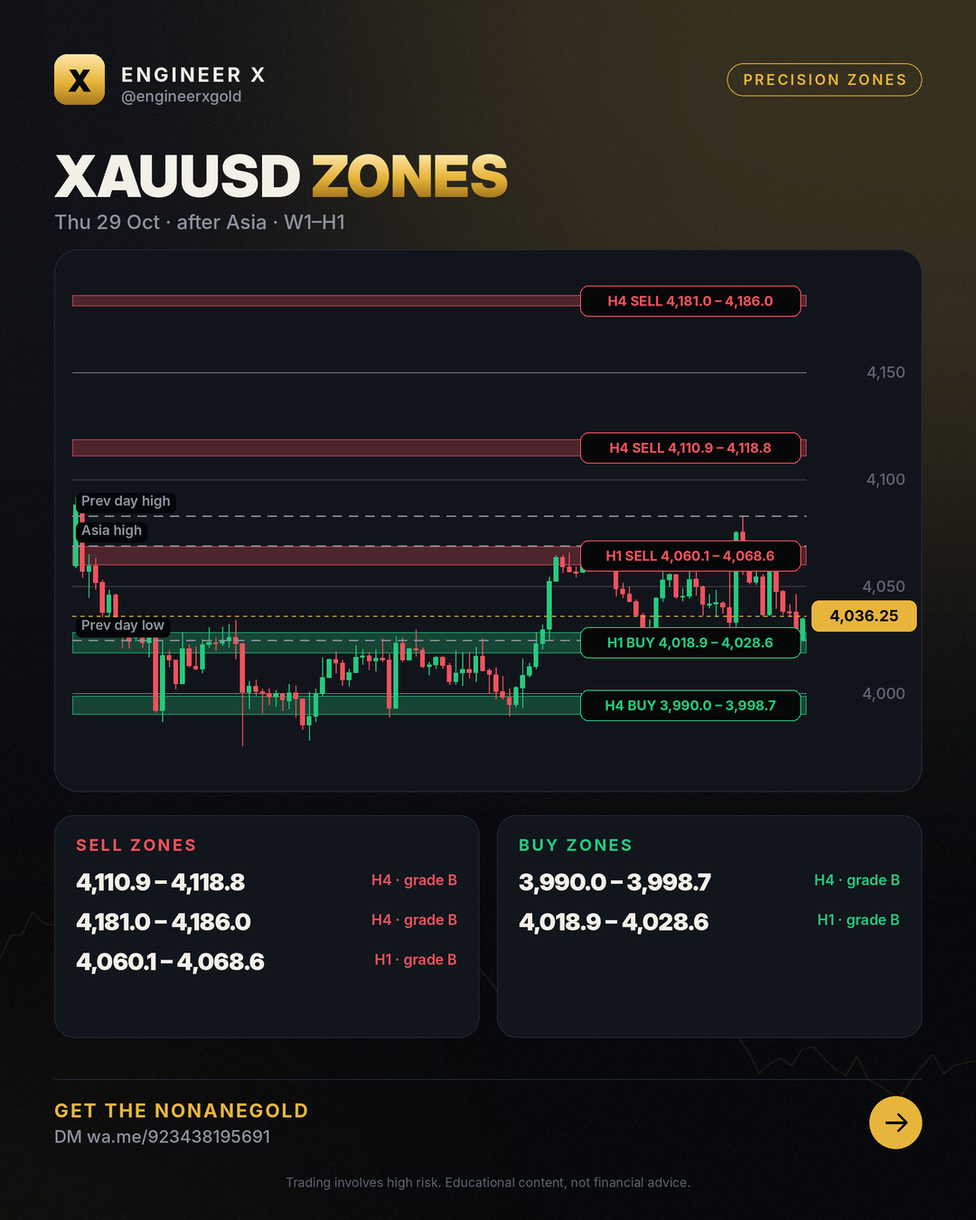
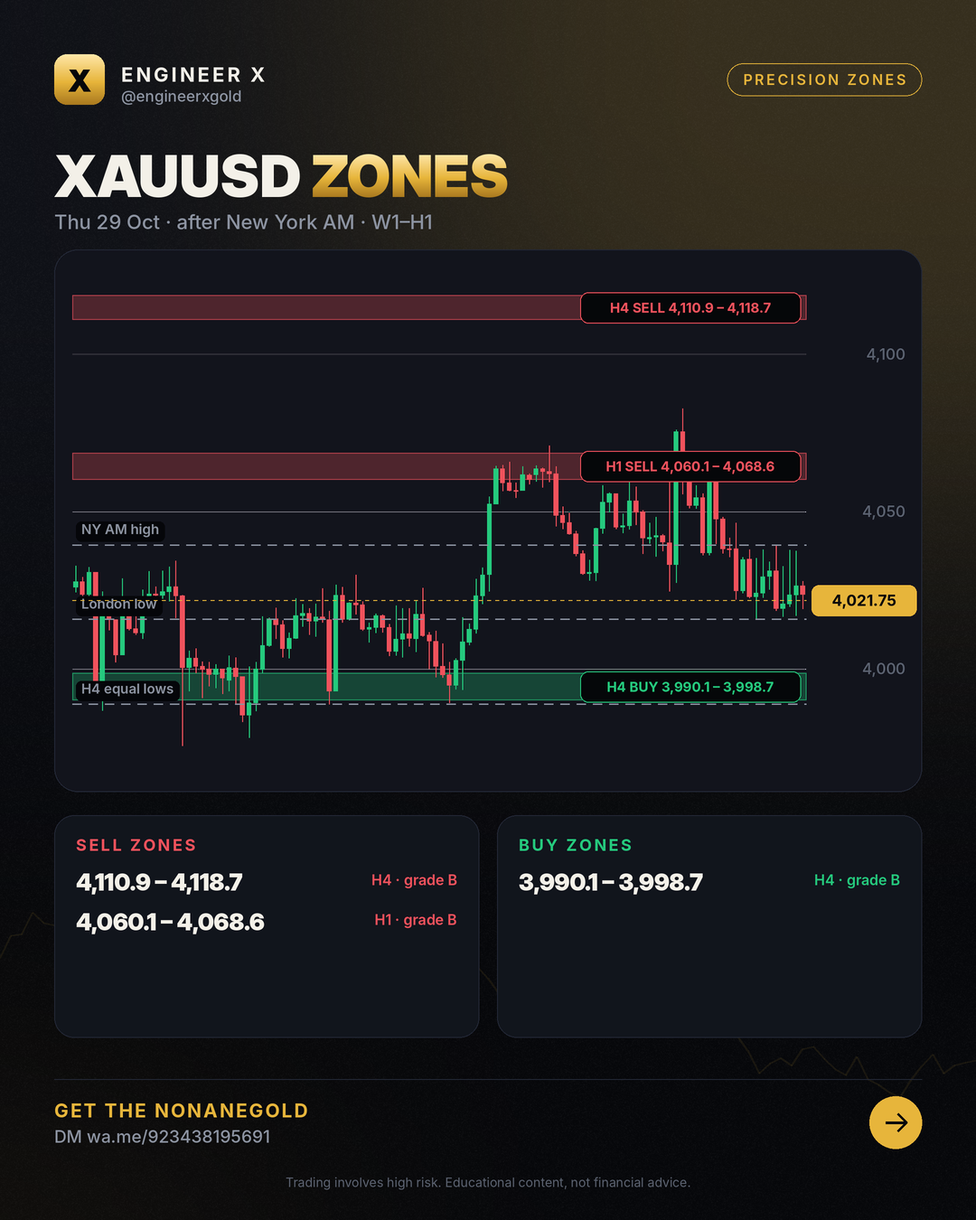
zones 2026-10-29 Thu 29 Oct · after New York AM · W1–H1

diff --git a/zones/index.html b/zones/index.html
@@ -4,7 +4,7 @@
 <meta charset="utf-8">
 <meta name="viewport" content="width=device-width,initial-scale=1">
 <title>XAUUSD Zones Today – Buy &amp; Sell Zones (H4, H1) | Engineer X</title>
-<meta name="description" content="XAUUSD buy and sell zones for 2026-10-29: tested W1, D1, H4 and H1 zones with invalidation levels, updated after the Asian, London and New York sessions. Price 4,036.25.">
+<meta name="description" content="XAUUSD buy and sell zones for 2026-10-29: tested W1, D1, H4 and H1 zones with invalidation levels, updated after the Asian, London and New York sessions. Price 4,021.75.">
 <meta name="robots" content="index,follow,max-image-preview:large,max-snippet:-1,max-video-preview:-1">
 <meta name="author" content="Engr. M Ahmad Mehmood">
 <link rel="canonical" href="https://engineerxgold.github.io/zones/">
@@ -12,7 +12,7 @@
 <link rel="apple-touch-icon" href="../img/logo.png">
 <meta property="og:site_name" content="Engineer X">
 <meta property="og:title" content="XAUUSD Zones Today – Buy &amp; Sell Zones (H4, H1) | Engineer X">
-<meta property="og:description" content="XAUUSD buy and sell zones for 2026-10-29: tested W1, D1, H4 and H1 zones with invalidation levels, updated after the Asian, London and New York sessions. Price 4,036.25.">
+<meta property="og:description" content="XAUUSD buy and sell zones for 2026-10-29: tested W1, D1, H4 and H1 zones with invalidation levels, updated after the Asian, London and New York sessions. Price 4,021.75.">
 <meta property="og:type" content="website">
 <meta property="og:url" content="https://engineerxgold.github.io/zones/">
 <meta property="og:image" content="https://engineerxgold.github.io/zones/img/2026-10-29.png">
@@ -22,7 +22,7 @@
 <meta property="og:locale" content="en_US">
 <meta name="twitter:card" content="summary_large_image">
 <meta name="twitter:title" content="XAUUSD Zones Today – Buy &amp; Sell Zones (H4, H1) | Engineer X">
-<meta name="twitter:description" content="XAUUSD buy and sell zones for 2026-10-29: tested W1, D1, H4 and H1 zones with invalidation levels, updated after the Asian, London and New York sessions. Price 4,036.25.">
+<meta name="twitter:description" content="XAUUSD buy and sell zones for 2026-10-29: tested W1, D1, H4 and H1 zones with invalidation levels, updated after the Asian, London and New York sessions. Price 4,021.75.">
 <meta name="twitter:image" content="https://engineerxgold.github.io/zones/img/2026-10-29.png">
 <meta name="twitter:image:alt" content="XAUUSD Zones Today – Buy &amp; Sell Zones (H4, H1) | Engineer X">
 
@@ -101,7 +101,7 @@ footer .fl a{color:var(--muted);margin-right:16px}
 <div class="wrap">
 <nav><a class="logo" href="../"><b>X</b>Engineer X</a>
 <div class="links"><a href="../zones/">Daily Zones</a><a href="../blog/">Learn</a><a href="../ea/">Gold EA</a><a href="../about/">About</a><a class="cta" href="https://wa.me/923438195691">Get the EA</a></div></nav>
-<section class="hero"><span class="chip">Updated Thu 29 Oct · after Asia · W1–H1</span><h1>XAUUSD <span class="gold">precision zones</span></h1><p>XAUUSD buy and sell zones for 2026-10-29: tested W1, D1, H4 and H1 zones with invalidation levels, updated after the Asian, London and New York sessions. Price 4,036.25.</p></section><img src="img/2026-10-29.png" alt="Latest XAUUSD zone map" width="1080" height="1350"><section><h2>Current zones</h2><div style="overflow-x:auto"><table style="width:100%;border-collapse:collapse;font-size:15px"><tr><th align=left>Zone</th><th align=left>Price band</th><th>Grade</th><th align=left>Invalid</th><th align=left>Why</th></tr><tr><td>H4 sell</td><td><b>4,110.85 – 4,118.75</b></td><td>B</td><td>above 4,120.41</td><td>MSNR resistance levels (fresh): 4H GAP 4113.34, 1H OCL 4115.24, 1H A 4116.26. Wrong if price trades above 4120.41.; Confluence score 3: MSNR + ICT + SMC</td></tr><tr><td>H4 sell</td><td><b>4,181.04 – 4,186.02</b></td><td>B</td><td>above 4,187.68</td><td>MSNR resistance level (fresh): 4H A 4183.53. Wrong if price trades above 4187.68.; Confluence score 2: MSNR + CRT</td></tr><tr><td>H1 sell</td><td><b>4,060.08 – 4,068.62</b></td><td>B</td><td>above 4,070.28</td><td>MSNR resistance levels (fresh): 1H A 4062.57, 30m GAP 4062.57, 30m A 4066.13, 15m A 4062.57. Wrong if price trades above 4070.28.; Confluence score 2: MSNR + CR</td></tr><tr><td>H1 buy</td><td><b>4,018.87 – 4,028.58</b></td><td>B</td><td>below 4,017.21</td><td>MSNR support levels (fresh): 1H V 4024.77, 30m V 4021.36, 30m V 4024.77, 15m V 4021.36, 15m GAP 4026.09. Wrong if price trades below 4017.21.; Confluence score </td></tr><tr><td>H4 buy</td><td><b>3,990.03 – 3,998.71</b></td><td>B</td><td>below 3,988.37</td><td>MSNR support levels (fresh): 4H V 3994.82, 30m V 3994.63, 15m V 3992.52, 15m V 3994.63, 15m OCL 3996.22. Wrong if price trades below 3988.37.; Confluence score </td></tr></table></div></section><section><h2>Honest scorecard</h2><div class="grid"><div class="card"><div class="n">195</div><p>zones published (30 days)</p></div><div class="card"><div class="n">97</div><p>held (moved 1 hourly ATR away)</p></div><div class="card"><div class="n">16</div><p>broke (traded beyond the invalidation)</p></div><div class="card"><div class="n">86%</div><p>hold rate of decided zones</p></div></div></section><div class="ctabox"><h3>🤖 Trade the zones with the NonaneGold</h3><p>Free signals group access + setup help Message us and we will help you set it up.</p><div class="btns"><a class="btn gold" href="https://wa.me/923438195691">Get the EA on Telegram</a><a class="btn ghost" href="../ea/">About the EA</a></div></div><section><h2>Archive</h2><div class="grid posts"><a class="card" href="2026-10-29/"><span class="date">2026-10-29</span><h3>XAUUSD zones 2026-10-29</h3></a><a class="card" href="2026-10-28/"><span class="date">2026-10-28</span><h3>XAUUSD zones 2026-10-28</h3></a><a class="card" href="2026-10-27/"><span class="date">2026-10-27</span><h3>XAUUSD zones 2026-10-27</h3></a><a class="card" href="2026-10-26/"><span class="date">2026-10-26</span><h3>XAUUSD zones 2026-10-26</h3></a><a class="card" href="2026-10-23/"><span class="date">2026-10-23</span><h3>XAUUSD zones 2026-10-23</h3></a><a class="card" href="2026-10-22/"><span class="date">2026-10-22</span><h3>XAUUSD zones 2026-10-22</h3></a><a class="card" href="2026-10-21/"><span class="date">2026-10-21</span><h3>XAUUSD zones 2026-10-21</h3></a><a class="card" href="2026-10-20/"><span class="date">2026-10-20</span><h3>XAUUSD zones 2026-10-20</h3></a><a class="card" href="2026-10-19/"><span class="date">2026-10-19</span><h3>XAUUSD zones 2026-10-19</h3></a><a class="card" href="2026-10-16/"><span class="date">2026-10-16</span><h3>XAUUSD zones 2026-10-16</h3></a><a class="card" href="2026-10-15/"><span class="date">2026-10-15</span><h3>XAUUSD zones 2026-10-15</h3></a><a class="card" href="2026-10-14/"><span class="date">2026-10-14</span><h3>XAUUSD zones 2026-10-14</h3></a><a class="card" href="2026-10-13/"><span class="date">2026-10-13</span><h3>XAUUSD zones 2026-10-13</h3></a></div></section>
+<section class="hero"><span class="chip">Updated Thu 29 Oct · after New York AM · W1–H1</span><h1>XAUUSD <span class="gold">precision zones</span></h1><p>XAUUSD buy and sell zones for 2026-10-29: tested W1, D1, H4 and H1 zones with invalidation levels, updated after the Asian, London and New York sessions. Price 4,021.75.</p></section><img src="img/2026-10-29.png" alt="Latest XAUUSD zone map" width="1080" height="1350"><section><h2>Current zones</h2><div style="overflow-x:auto"><table style="width:100%;border-collapse:collapse;font-size:15px"><tr><th align=left>Zone</th><th align=left>Price band</th><th>Grade</th><th align=left>Invalid</th><th align=left>Why</th></tr><tr><td>H4 sell</td><td><b>4,110.91 – 4,118.69</b></td><td>B</td><td>above 4,120.31</td><td>MSNR resistance levels (fresh): 4H GAP 4113.34, 1H OCL 4115.24, 1H A 4116.26. Wrong if price trades above 4120.31.; Confluence score 3: MSNR + ICT + SMC</td></tr><tr><td>H1 sell</td><td><b>4,060.14 – 4,068.56</b></td><td>B</td><td>above 4,070.18</td><td>MSNR resistance levels (fresh): 1H A 4062.57, 30m GAP 4062.57, 30m A 4066.13, 15m A 4062.57. Wrong if price trades above 4070.18.; Confluence score 2: MSNR + CR</td></tr><tr><td>H4 buy</td><td><b>3,990.09 – 3,998.65</b></td><td>B</td><td>below 3,988.47</td><td>MSNR support levels (fresh): 4H V 3994.82, 30m V 3994.63, 15m V 3992.52, 15m V 3994.63, 15m OCL 3996.22. Wrong if price trades below 3988.47.; Confluence score </td></tr></table></div></section><section><h2>Honest scorecard</h2><div class="grid"><div class="card"><div class="n">200</div><p>zones published (30 days)</p></div><div class="card"><div class="n">98</div><p>held (moved 1 hourly ATR away)</p></div><div class="card"><div class="n">17</div><p>broke (traded beyond the invalidation)</p></div><div class="card"><div class="n">85%</div><p>hold rate of decided zones</p></div></div></section><div class="ctabox"><h3>🤖 Trade the zones with the NonaneGold</h3><p>Free signals group access + setup help Message us and we will help you set it up.</p><div class="btns"><a class="btn gold" href="https://wa.me/923438195691">Get the EA on Telegram</a><a class="btn ghost" href="../ea/">About the EA</a></div></div><section><h2>Archive</h2><div class="grid posts"><a class="card" href="2026-10-29/"><span class="date">2026-10-29</span><h3>XAUUSD zones 2026-10-29</h3></a><a class="card" href="2026-10-28/"><span class="date">2026-10-28</span><h3>XAUUSD zones 2026-10-28</h3></a><a class="card" href="2026-10-27/"><span class="date">2026-10-27</span><h3>XAUUSD zones 2026-10-27</h3></a><a class="card" href="2026-10-26/"><span class="date">2026-10-26</span><h3>XAUUSD zones 2026-10-26</h3></a><a class="card" href="2026-10-23/"><span class="date">2026-10-23</span><h3>XAUUSD zones 2026-10-23</h3></a><a class="card" href="2026-10-22/"><span class="date">2026-10-22</span><h3>XAUUSD zones 2026-10-22</h3></a><a class="card" href="2026-10-21/"><span class="date">2026-10-21</span><h3>XAUUSD zones 2026-10-21</h3></a><a class="card" href="2026-10-20/"><span class="date">2026-10-20</span><h3>XAUUSD zones 2026-10-20</h3></a><a class="card" href="2026-10-19/"><span class="date">2026-10-19</span><h3>XAUUSD zones 2026-10-19</h3></a><a class="card" href="2026-10-16/"><span class="date">2026-10-16</span><h3>XAUUSD zones 2026-10-16</h3></a><a class="card" href="2026-10-15/"><span class="date">2026-10-15</span><h3>XAUUSD zones 2026-10-15</h3></a><a class="card" href="2026-10-14/"><span class="date">2026-10-14</span><h3>XAUUSD zones 2026-10-14</h3></a><a class="card" href="2026-10-13/"><span class="date">2026-10-13</span><h3>XAUUSD zones 2026-10-13</h3></a></div></section>
 <footer>
 <div class="warn"><b>Risk warning:</b> Trading gold, forex and CFDs carries a high risk of losing money and is not suitable for everyone. Past results do not guarantee future results. Everything on this site is educational and not financial advice. We are an introducing partner of our broker and may earn a commission on accounts opened through our link.</div>
 <p class="fl" style="margin-top:18px"><a href="../about/">About &amp; methodology</a><a href="../privacy.html">Privacy</a><a href="../terms.html">Terms &amp; risk disclosure</a><a href="../feed.xml">RSS</a><a href="https://t.me/engineerxgold">Telegram</a></p>

diff --git a/zones/2026-10-29/index.html b/zones/2026-10-29/index.html
@@ -4,7 +4,7 @@
 <meta charset="utf-8">
 <meta name="viewport" content="width=device-width,initial-scale=1">
 <title>Gold Price Today In India – 29 Oct 2026 (W1–H1)</title>
-<meta name="description" content="XAUUSD buy and sell zones for 2026-10-29: tested W1, D1, H4 and H1 zones with invalidation levels, updated after the Asian, London and New York sessions. Price 4,036.25.">
+<meta name="description" content="XAUUSD buy and sell zones for 2026-10-29: tested W1, D1, H4 and H1 zones with invalidation levels, updated after the Asian, London and New York sessions. Price 4,021.75.">
 <meta name="robots" content="index,follow,max-image-preview:large,max-snippet:-1,max-video-preview:-1">
 <meta name="author" content="Engr. M Ahmad Mehmood">
 <link rel="canonical" href="https://engineerxgold.github.io/zones/2026-10-29/">
@@ -12,7 +12,7 @@
 <link rel="apple-touch-icon" href="../../img/logo.png">
 <meta property="og:site_name" content="Engineer X">
 <meta property="og:title" content="Gold Price Today In India – 29 Oct 2026 (W1–H1)">
-<meta property="og:description" content="XAUUSD buy and sell zones for 2026-10-29: tested W1, D1, H4 and H1 zones with invalidation levels, updated after the Asian, London and New York sessions. Price 4,036.25.">
+<meta property="og:description" content="XAUUSD buy and sell zones for 2026-10-29: tested W1, D1, H4 and H1 zones with invalidation levels, updated after the Asian, London and New York sessions. Price 4,021.75.">
 <meta property="og:type" content="article">
 <meta property="og:url" content="https://engineerxgold.github.io/zones/2026-10-29/">
 <meta property="og:image" content="https://engineerxgold.github.io/zones/img/2026-10-29.png">
@@ -22,7 +22,7 @@
 <meta property="og:locale" content="en_US">
 <meta name="twitter:card" content="summary_large_image">
 <meta name="twitter:title" content="Gold Price Today In India – 29 Oct 2026 (W1–H1)">
-<meta name="twitter:description" content="XAUUSD buy and sell zones for 2026-10-29: tested W1, D1, H4 and H1 zones with invalidation levels, updated after the Asian, London and New York sessions. Price 4,036.25.">
+<meta name="twitter:description" content="XAUUSD buy and sell zones for 2026-10-29: tested W1, D1, H4 and H1 zones with invalidation levels, updated after the Asian, London and New York sessions. Price 4,021.75.">
 <meta name="twitter:image" content="https://engineerxgold.github.io/zones/img/2026-10-29.png">
 <meta name="twitter:image:alt" content="Gold Price Today In India – 29 Oct 2026 (W1–H1)">
 
@@ -32,7 +32,7 @@
 <link rel="preconnect" href="https://fonts.googleapis.com">
 <link rel="preconnect" href="https://fonts.gstatic.com" crossorigin>
 <link href="https://fonts.googleapis.com/css2?family=Inter:wght@400;500;600;800;900&display=swap" rel="stylesheet">
-<script type="application/ld+json">{"@context": "https://schema.org", "@type": "Organization", "@id": "https://engineerxgold.github.io/#organization", "name": "Engineer X", "url": "https://engineerxgold.github.io/", "logo": {"@type": "ImageObject", "url": "https://engineerxgold.github.io/img/logo.png", "width": 512, "height": 512}, "sameAs": ["https://t.me/engineerxgold"]}</script><script type="application/ld+json">{"@context": "https://schema.org", "@type": "Article", "headline": "Gold Price Today In India – 29 Oct 2026 (W1–H1)", "datePublished": "2026-10-29T08:00:00+05:00", "dateModified": "2026-10-29T12:04:15+05:00", "author": {"@type": "Person", "@id": "https://engineerxgold.github.io/about/#author", "name": "Engr. M Ahmad Mehmood", "url": "https://engineerxgold.github.io/about/", "jobTitle": "MQL5 Expert Advisor developer and gold market analyst", "worksFor": {"@id": "https://engineerxgold.github.io/#organization"}}, "publisher": {"@id": "https://engineerxgold.github.io/#organization"}, "image": "https://engineerxgold.github.io/zones/img/2026-10-29.png", "mainEntityOfPage": "https://engineerxgold.github.io/zones/2026-10-29/"}</script>
+<script type="application/ld+json">{"@context": "https://schema.org", "@type": "Organization", "@id": "https://engineerxgold.github.io/#organization", "name": "Engineer X", "url": "https://engineerxgold.github.io/", "logo": {"@type": "ImageObject", "url": "https://engineerxgold.github.io/img/logo.png", "width": 512, "height": 512}, "sameAs": ["https://t.me/engineerxgold"]}</script><script type="application/ld+json">{"@context": "https://schema.org", "@type": "Article", "headline": "Gold Price Today In India – 29 Oct 2026 (W1–H1)", "datePublished": "2026-10-29T08:00:00+05:00", "dateModified": "2026-10-29T21:04:22+05:00", "author": {"@type": "Person", "@id": "https://engineerxgold.github.io/about/#author", "name": "Engr. M Ahmad Mehmood", "url": "https://engineerxgold.github.io/about/", "jobTitle": "MQL5 Expert Advisor developer and gold market analyst", "worksFor": {"@id": "https://engineerxgold.github.io/#organization"}}, "publisher": {"@id": "https://engineerxgold.github.io/#organization"}, "image": "https://engineerxgold.github.io/zones/img/2026-10-29.png", "mainEntityOfPage": "https://engineerxgold.github.io/zones/2026-10-29/"}</script>
 
 <style>
 :root{--gold:#E7B53B;--gold-hi:#FFE7A8;--bg:#07080B;--bg2:#0E1016;--panel:#12151D;--line:#232836;--green:#25C97D;--red:#F0525C;--text:#F3F0E8;--muted:#8C93A1}
@@ -101,7 +101,7 @@ footer .fl a{color:var(--muted);margin-right:16px}
 <div class="wrap">
 <nav><a class="logo" href="../../"><b>X</b>Engineer X</a>
 <div class="links"><a href="../../zones/">Daily Zones</a><a href="../../blog/">Learn</a><a href="../../ea/">Gold EA</a><a href="../../about/">About</a><a class="cta" href="https://wa.me/923438195691">Get the EA</a></div></nav>
-<article><p class="crumbs"><a href="../../">Home</a> › <a href="../">Zones</a> › 2026-10-29</p><h1>Gold Price Today In India – 29 Oct 2026 (W1–H1)</h1><p class="byline">Thu 29 Oct · after Asia · W1–H1 · by Engr. M Ahmad Mehmood</p><img src="../img/2026-10-29.png" alt="XAUUSD zone map 2026-10-29" width="1080" height="1350" loading="eager"><h2>Zones</h2><div style="overflow-x:auto"><table style="width:100%;border-collapse:collapse;font-size:15px"><tr><th align=left>Zone</th><th align=left>Price band</th><th>Grade</th><th align=left>Invalid</th><th align=left>Why</th></tr><tr><td>H4 sell</td><td><b>4,110.85 – 4,118.75</b></td><td>B</td><td>above 4,120.41</td><td>MSNR resistance levels (fresh): 4H GAP 4113.34, 1H OCL 4115.24, 1H A 4116.26. Wrong if price trades above 4120.41.; Confluence score 3: MSNR + ICT + SMC</td></tr><tr><td>H4 sell</td><td><b>4,181.04 – 4,186.02</b></td><td>B</td><td>above 4,187.68</td><td>MSNR resistance level (fresh): 4H A 4183.53. Wrong if price trades above 4187.68.; Confluence score 2: MSNR + CRT</td></tr><tr><td>H1 sell</td><td><b>4,060.08 – 4,068.62</b></td><td>B</td><td>above 4,070.28</td><td>MSNR resistance levels (fresh): 1H A 4062.57, 30m GAP 4062.57, 30m A 4066.13, 15m A 4062.57. Wrong if price trades above 4070.28.; Confluence score 2: MSNR + CR</td></tr><tr><td>H1 buy</td><td><b>4,018.87 – 4,028.58</b></td><td>B</td><td>below 4,017.21</td><td>MSNR support levels (fresh): 1H V 4024.77, 30m V 4021.36, 30m V 4024.77, 15m V 4021.36, 15m GAP 4026.09. Wrong if price trades below 4017.21.; Confluence score </td></tr><tr><td>H4 buy</td><td><b>3,990.03 – 3,998.71</b></td><td>B</td><td>below 3,988.37</td><td>MSNR support levels (fresh): 4H V 3994.82, 30m V 3994.63, 15m V 3992.52, 15m V 3994.63, 15m OCL 3996.22. Wrong if price trades below 3988.37.; Confluence score </td></tr></table></div><h2>How to read this map</h2><p>Bands are where price is expected to react; they are not entries. Trading beyond the invalidation price ends the zone; each zone counts once (first touch). Highs and lows listed as liquidity are targets: on 10 years of gold price ran through them more often than through random levels.</p><div class="ctabox"><h3>🤖 Trade the zones with the NonaneGold</h3><p>Free signals group access + setup help Message us and we will help you set it up.</p><div class="btns"><a class="btn gold" href="https://wa.me/923438195691">Get the EA on Telegram</a><a class="btn ghost" href="../../ea/">About the EA</a></div></div></article>
+<article><p class="crumbs"><a href="../../">Home</a> › <a href="../">Zones</a> › 2026-10-29</p><h1>Gold Price Today In India – 29 Oct 2026 (W1–H1)</h1><p class="byline">Thu 29 Oct · after New York AM · W1–H1 · by Engr. M Ahmad Mehmood</p><img src="../img/2026-10-29.png" alt="XAUUSD zone map 2026-10-29" width="1080" height="1350" loading="eager"><h2>Zones</h2><div style="overflow-x:auto"><table style="width:100%;border-collapse:collapse;font-size:15px"><tr><th align=left>Zone</th><th align=left>Price band</th><th>Grade</th><th align=left>Invalid</th><th align=left>Why</th></tr><tr><td>H4 sell</td><td><b>4,110.91 – 4,118.69</b></td><td>B</td><td>above 4,120.31</td><td>MSNR resistance levels (fresh): 4H GAP 4113.34, 1H OCL 4115.24, 1H A 4116.26. Wrong if price trades above 4120.31.; Confluence score 3: MSNR + ICT + SMC</td></tr><tr><td>H1 sell</td><td><b>4,060.14 – 4,068.56</b></td><td>B</td><td>above 4,070.18</td><td>MSNR resistance levels (fresh): 1H A 4062.57, 30m GAP 4062.57, 30m A 4066.13, 15m A 4062.57. Wrong if price trades above 4070.18.; Confluence score 2: MSNR + CR</td></tr><tr><td>H4 buy</td><td><b>3,990.09 – 3,998.65</b></td><td>B</td><td>below 3,988.47</td><td>MSNR support levels (fresh): 4H V 3994.82, 30m V 3994.63, 15m V 3992.52, 15m V 3994.63, 15m OCL 3996.22. Wrong if price trades below 3988.47.; Confluence score </td></tr></table></div><h2>How to read this map</h2><p>Bands are where price is expected to react; they are not entries. Trading beyond the invalidation price ends the zone; each zone counts once (first touch). Highs and lows listed as liquidity are targets: on 10 years of gold price ran through them more often than through random levels.</p><div class="ctabox"><h3>🤖 Trade the zones with the NonaneGold</h3><p>Free signals group access + setup help Message us and we will help you set it up.</p><div class="btns"><a class="btn gold" href="https://wa.me/923438195691">Get the EA on Telegram</a><a class="btn ghost" href="../../ea/">About the EA</a></div></div></article>
 <footer>
 <div class="warn"><b>Risk warning:</b> Trading gold, forex and CFDs carries a high risk of losing money and is not suitable for everyone. Past results do not guarantee future results. Everything on this site is educational and not financial advice. We are an introducing partner of our broker and may earn a commission on accounts opened through our link.</div>
 <p class="fl" style="margin-top:18px"><a href="../../about/">About &amp; methodology</a><a href="../../privacy.html">Privacy</a><a href="../../terms.html">Terms &amp; risk disclosure</a><a href="../../feed.xml">RSS</a><a href="https://t.me/engineerxgold">Telegram</a></p>

diff --git a/index.html b/index.html
@@ -101,7 +101,7 @@ footer .fl a{color:var(--muted);margin-right:16px}
 <div class="wrap">
 <nav><a class="logo" href="./"><b>X</b>Engineer X</a>
 <div class="links"><a href="./zones/">Daily Zones</a><a href="./blog/">Learn</a><a href="./ea/">Gold EA</a><a href="./about/">About</a><a class="cta" href="https://wa.me/923438195691">Get the EA</a></div></nav>
-<section class="hero"><span class="chip">XAUUSD · W1–H1 · every session</span><h1>Gold <span class="gold">precision zones</span>, updated after every session</h1><p>Tested buy and sell zones with clear invalidation, a scorecard of every result, and the NonaneGold for traders who want it automated.</p><div class="btns"><a class="btn gold" href="zones/">See today's zones</a><a class="btn ghost" href="https://wa.me/923438195691">Get the EA</a></div></section><section><h2>Latest map Thu 29 Oct · after Asia · W1–H1</h2><img src="zones/img/2026-10-29.png" alt="Latest XAUUSD zones" width="1080" height="1350"></section><div class="ctabox"><h3>🤖 Trade the zones with the NonaneGold</h3><p>Free signals group access + setup help Message us and we will help you set it up.</p><div class="btns"><a class="btn gold" href="https://wa.me/923438195691">Get the EA on Telegram</a><a class="btn ghost" href="ea/">About the EA</a></div></div><section><h2>Learn</h2><div class="grid posts"><a class="card" href="blog/gold-trading-h4-trend-zones-liquidity-map/"><span class="date">2026-10-29</span><h3>Gold Trading: H4 Trend Zones &amp; Liquidity Map</h3></a><a class="card" href="blog/gold-trading-analyzing-today-s-zones-liquidity/"><span class="date">2026-10-28</span><h3>Gold Trading: Analyzing Today&#x27;s Zones &amp; Liquidity</h3></a><a class="card" href="blog/xauusd-analysis-key-gold-trading-zones-liquidity/"><span class="date">2026-10-27</span><h3>XAUUSD Analysis: Key Gold Trading Zones &amp; Liquidity</h3></a><a class="card" href="blog/gold-supply-and-demand-zones-for-xauusd-traders/"><span class="date">2026-10-26</span><h3>Gold supply and demand zones for XAUUSD traders</h3></a><a class="card" href="blog/xauusd-price-navigating-key-zones-and-liquidity/"><span class="date">2026-10-24</span><h3>xauusd price: Navigating Key Zones and Liquidity</h3></a><a class="card" href="blog/gold-supply-and-demand-zones-h4-trend-map/"><span class="date">2026-10-23</span><h3>Gold Supply and Demand Zones: H4 Trend Map</h3></a></div></section><section><h2>FAQ</h2><details><summary>What is a precision zone?</summary><p>A point of interest from a trading book (OTE 0.705, balanced price range, weekly close level, daily order block) that held better than random levels on 10 years of gold. Each zone has an invalidation price.</p></details><details><summary>How often are the zones updated?</summary><p>A daily plan at the Asian open, then after the Asian, London and New York sessions.</p></details><details><summary>Are these trade signals?</summary><p>No. Zones are areas to watch. Wait for your own confirmation and manage risk.</p></details><details><summary>How do I get the Gold EA?</summary><p>Message us on Telegram or WhatsApp; we answer and help with the setup.</p></details></section>
+<section class="hero"><span class="chip">XAUUSD · W1–H1 · every session</span><h1>Gold <span class="gold">precision zones</span>, updated after every session</h1><p>Tested buy and sell zones with clear invalidation, a scorecard of every result, and the NonaneGold for traders who want it automated.</p><div class="btns"><a class="btn gold" href="zones/">See today's zones</a><a class="btn ghost" href="https://wa.me/923438195691">Get the EA</a></div></section><section><h2>Latest map Thu 29 Oct · after New York AM · W1–H1</h2><img src="zones/img/2026-10-29.png" alt="Latest XAUUSD zones" width="1080" height="1350"></section><div class="ctabox"><h3>🤖 Trade the zones with the NonaneGold</h3><p>Free signals group access + setup help Message us and we will help you set it up.</p><div class="btns"><a class="btn gold" href="https://wa.me/923438195691">Get the EA on Telegram</a><a class="btn ghost" href="ea/">About the EA</a></div></div><section><h2>Learn</h2><div class="grid posts"><a class="card" href="blog/gold-trading-h4-trend-zones-liquidity-map/"><span class="date">2026-10-29</span><h3>Gold Trading: H4 Trend Zones &amp; Liquidity Map</h3></a><a class="card" href="blog/gold-trading-analyzing-today-s-zones-liquidity/"><span class="date">2026-10-28</span><h3>Gold Trading: Analyzing Today&#x27;s Zones &amp; Liquidity</h3></a><a class="card" href="blog/xauusd-analysis-key-gold-trading-zones-liquidity/"><span class="date">2026-10-27</span><h3>XAUUSD Analysis: Key Gold Trading Zones &amp; Liquidity</h3></a><a class="card" href="blog/gold-supply-and-demand-zones-for-xauusd-traders/"><span class="date">2026-10-26</span><h3>Gold supply and demand zones for XAUUSD traders</h3></a><a class="card" href="blog/xauusd-price-navigating-key-zones-and-liquidity/"><span class="date">2026-10-24</span><h3>xauusd price: Navigating Key Zones and Liquidity</h3></a><a class="card" href="blog/gold-supply-and-demand-zones-h4-trend-map/"><span class="date">2026-10-23</span><h3>Gold Supply and Demand Zones: H4 Trend Map</h3></a></div></section><section><h2>FAQ</h2><details><summary>What is a precision zone?</summary><p>A point of interest from a trading book (OTE 0.705, balanced price range, weekly close level, daily order block) that held better than random levels on 10 years of gold. Each zone has an invalidation price.</p></details><details><summary>How often are the zones updated?</summary><p>A daily plan at the Asian open, then after the Asian, London and New York sessions.</p></details><details><summary>Are these trade signals?</summary><p>No. Zones are areas to watch. Wait for your own confirmation and manage risk.</p></details><details><summary>How do I get the Gold EA?</summary><p>Message us on Telegram or WhatsApp; we answer and help with the setup.</p></details></section>
 <footer>
 <div class="warn"><b>Risk warning:</b> Trading gold, forex and CFDs carries a high risk of losing money and is not suitable for everyone. Past results do not guarantee future results. Everything on this site is educational and not financial advice. We are an introducing partner of our broker and may earn a commission on accounts opened through our link.</div>
 <p class="fl" style="margin-top:18px"><a href="./about/">About &amp; methodology</a><a href="./privacy.html">Privacy</a><a href="./terms.html">Terms &amp; risk disclosure</a><a href="./feed.xml">RSS</a><a href="https://t.me/engineerxgold">Telegram</a></p>
